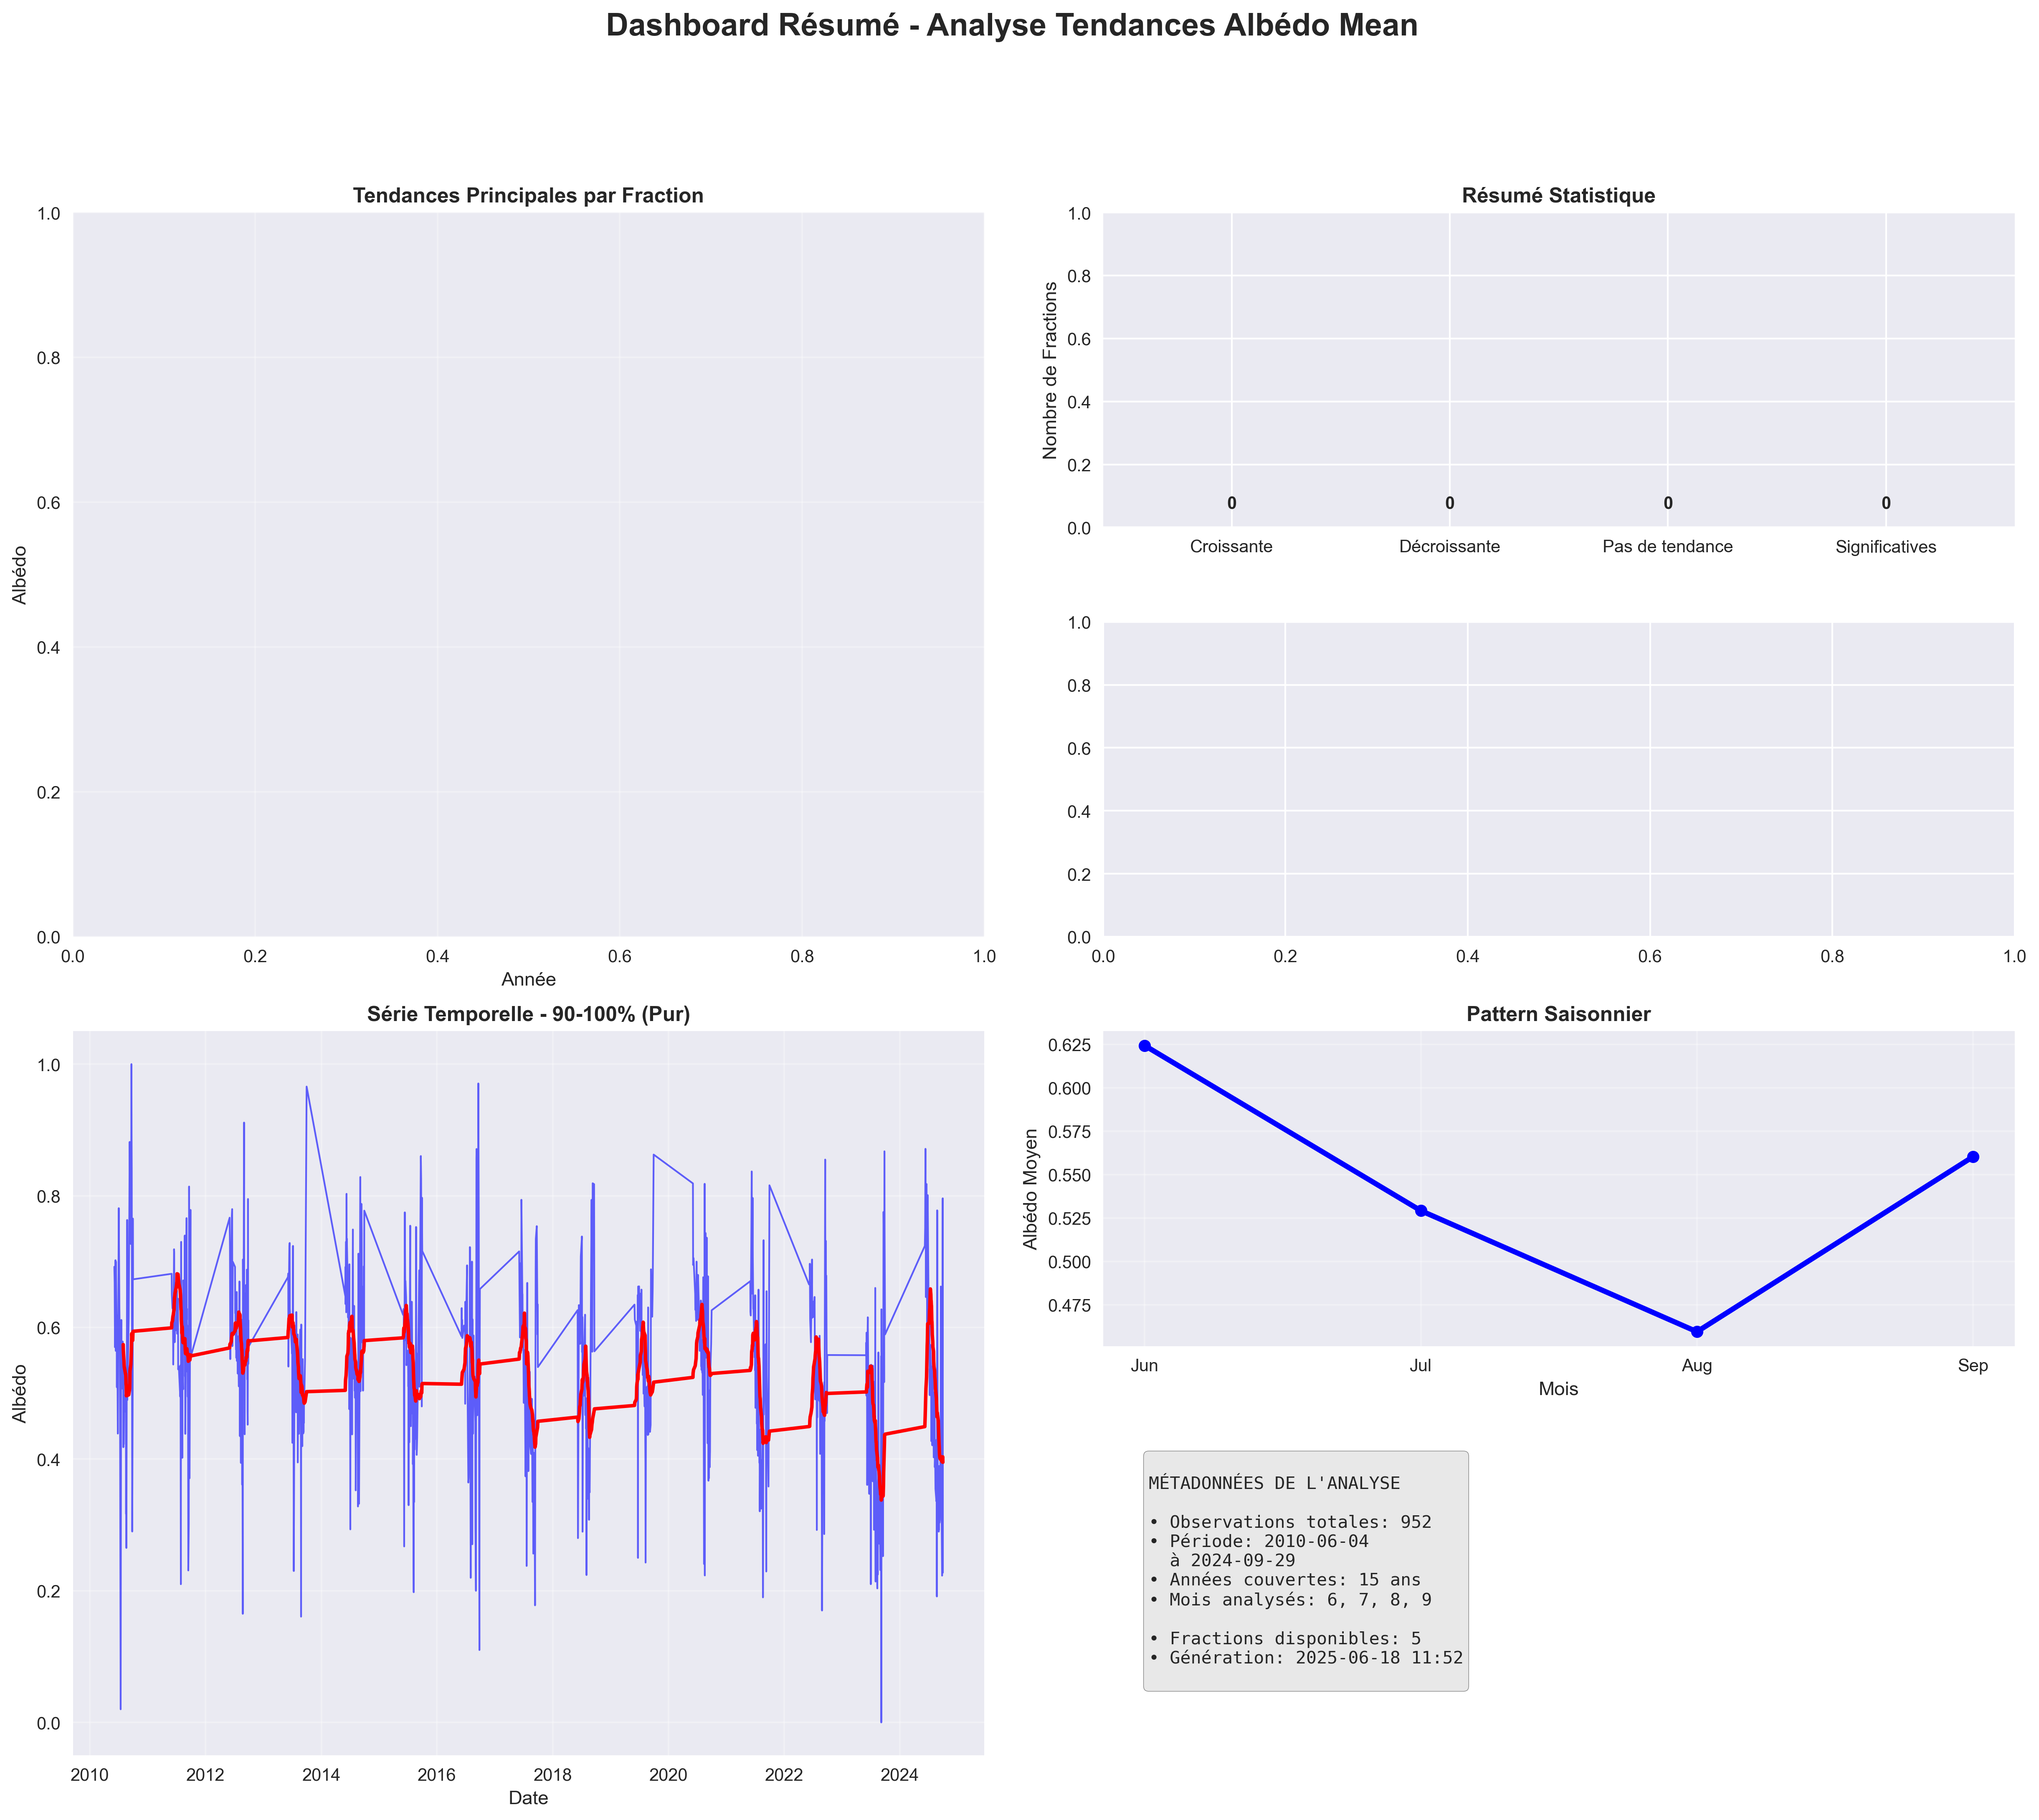
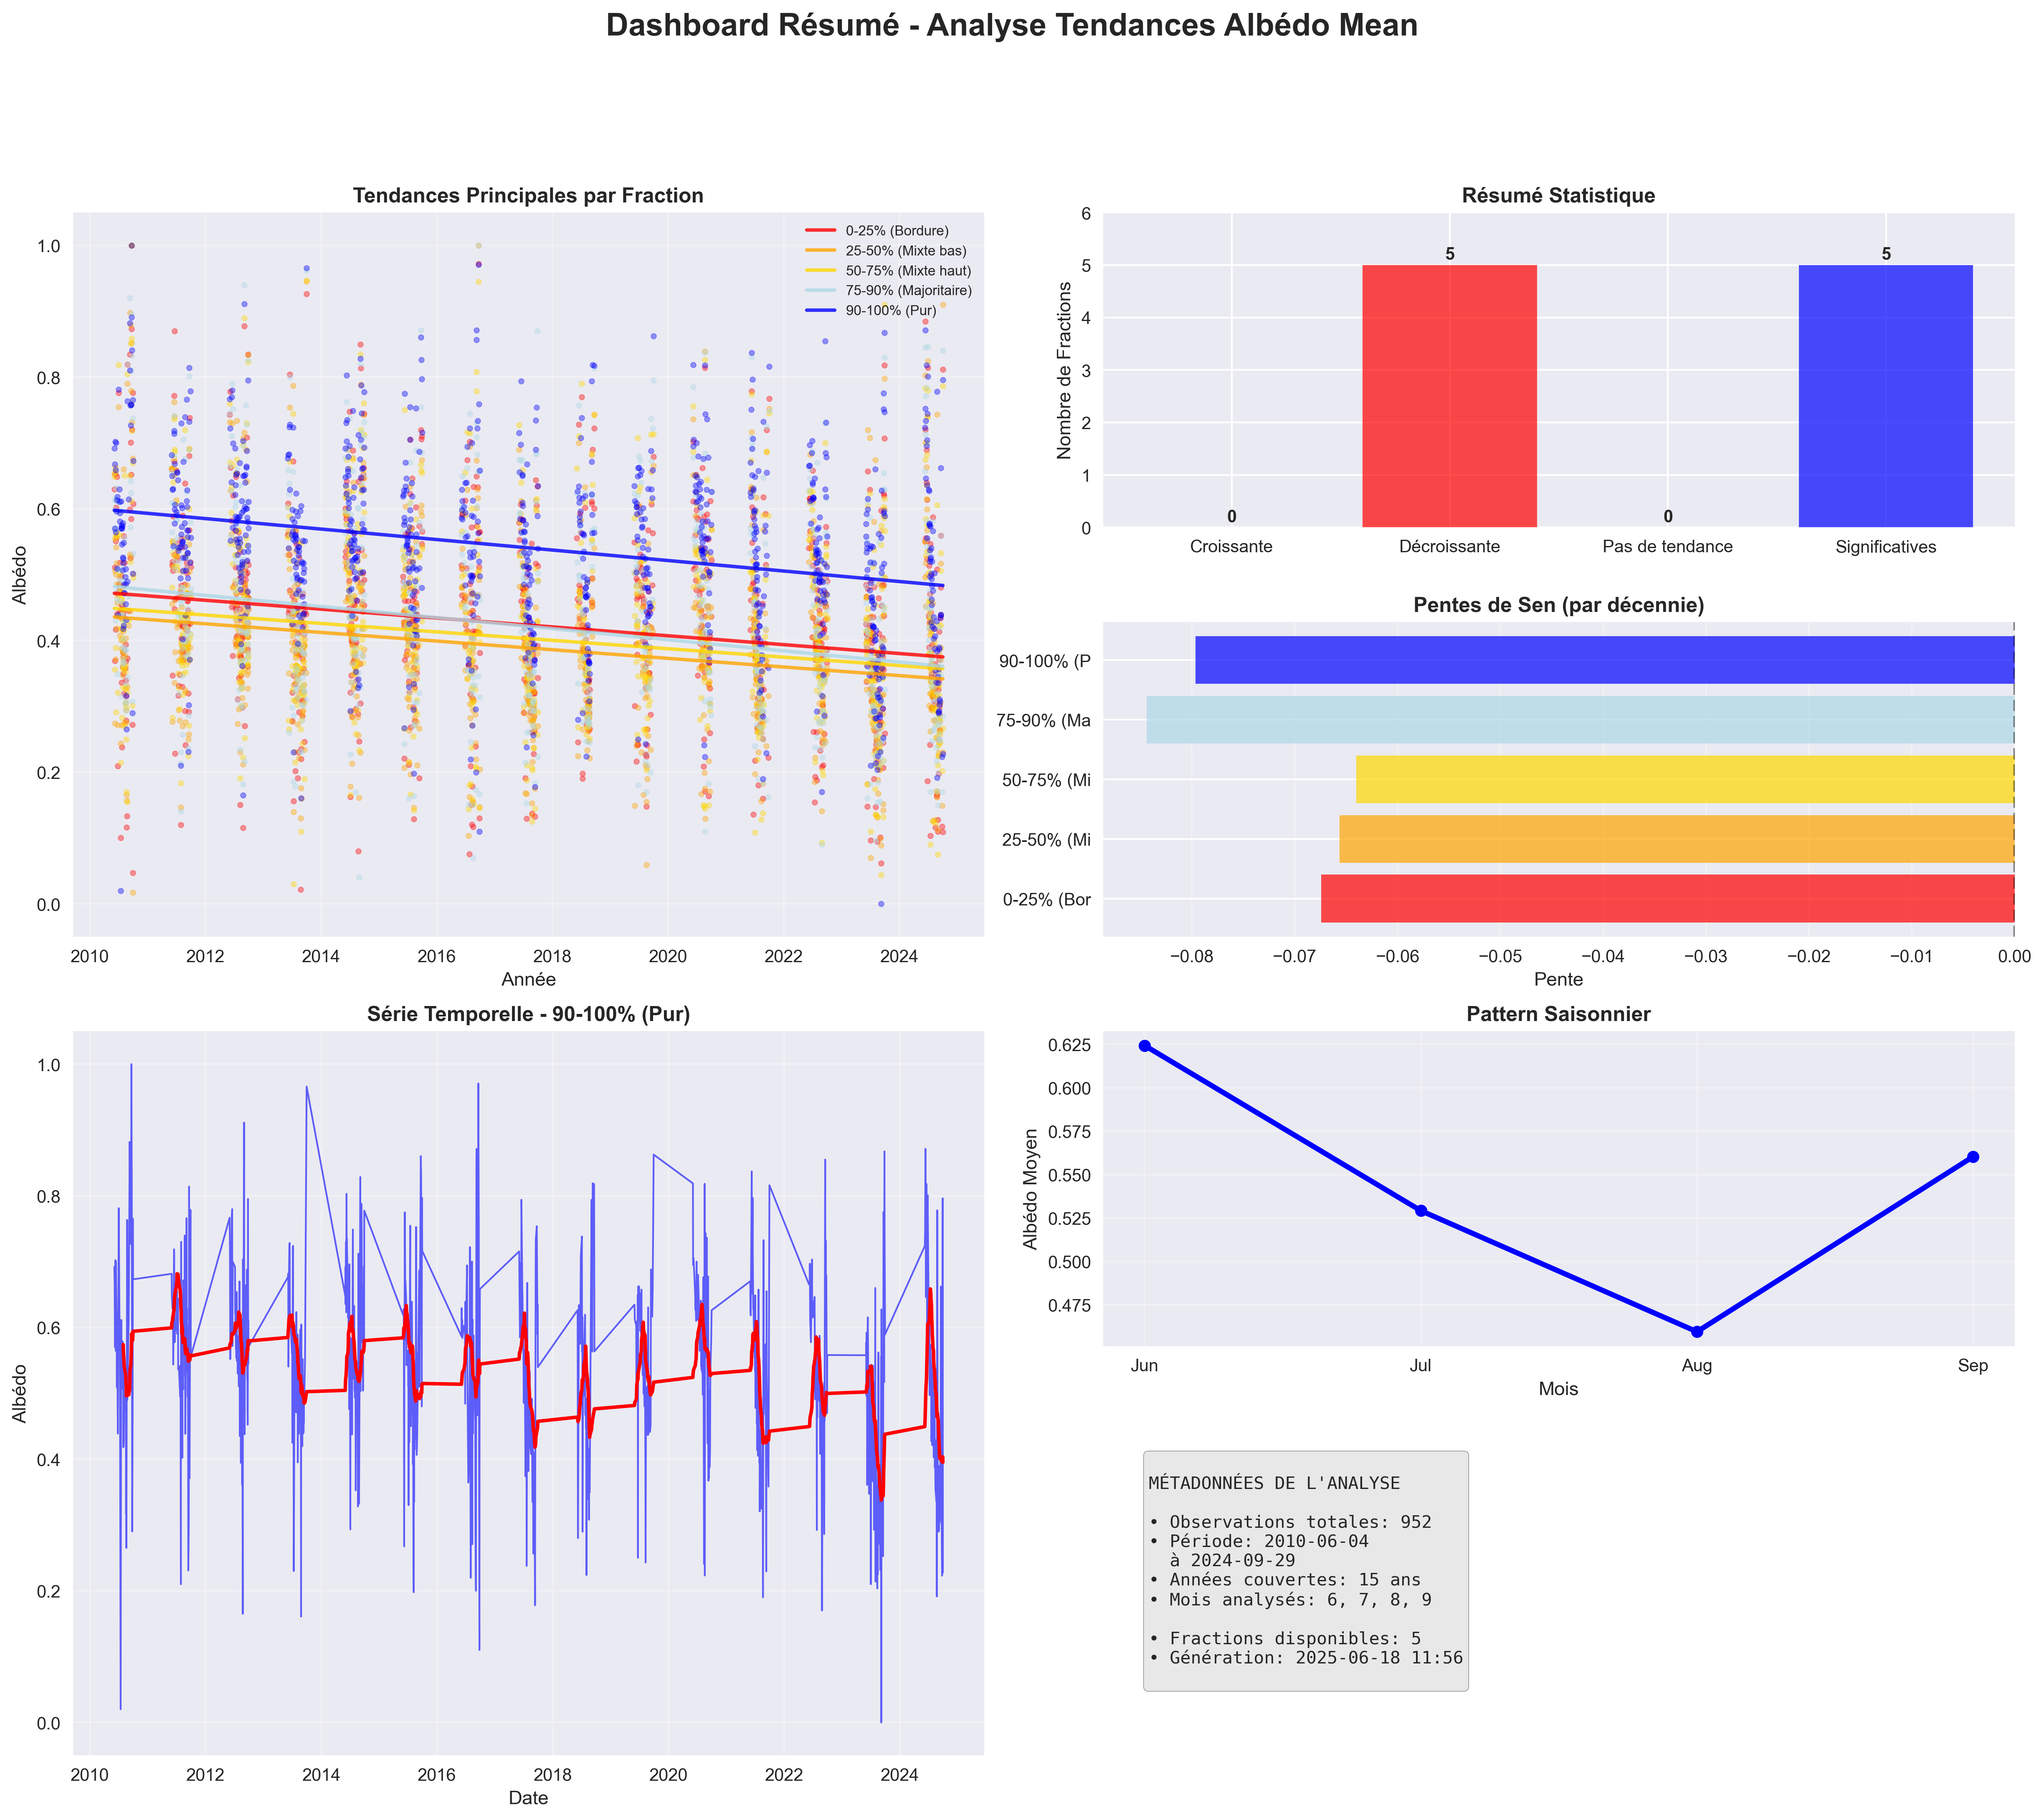
Fix time series visualization to properly segment melt seasons
- Modified _plot_main_timeseries to plot each melt season separately
- Prevents misleading line connections during winter months
- Added color gradient to distinguish different years
- Included overall trend line with statistical regression
- Added font configuration to suppress emoji glyph warnings
- Time series now shows scientifically accurate seasonal data only

🤖 Generated with [Claude Code](https://claude.ai/code)

diff --git a/visualization/charts.py b/visualization/charts.py
@@ -15,6 +15,11 @@ from config import (FRACTION_CLASSES, CLASS_LABELS, FRACTION_COLORS, PLOT_STYLES
                      TREND_SYMBOLS, get_significance_marker, OUTPUT_DIR)
 from utils.helpers import print_section_header, format_pvalue, ensure_directory_exists
 import os
+import warnings
+
+# Configurer matplotlib pour éviter les avertissements de police
+plt.rcParams['font.family'] = ['DejaVu Sans', 'Arial', 'sans-serif']
+warnings.filterwarnings('ignore', category=UserWarning, message='.*Glyph.*missing from font.*')
 
 class ChartGenerator:
     """
@@ -512,21 +517,58 @@ class ChartGenerator:
             ax.grid(True, alpha=0.3, axis='x')
     
     def _plot_main_timeseries(self, ax, variable):
-        """Série temporelle principale"""
+        """Série temporelle principale - segmentée par saison de fonte"""
         main_fraction = 'pure_ice'
         col_name = f"{main_fraction}_{variable}"
         
         if col_name in self.data.columns:
-            data_subset = self.data[['date', col_name]].dropna()
-            ax.plot(data_subset['date'], data_subset[col_name], 
-                   alpha=0.6, linewidth=1, color='blue')
+            # Filtrer pour saison de fonte seulement (juin-septembre)
+            melt_season_data = self.data[
+                (self.data['month'].isin([6, 7, 8, 9])) & 
+                (self.data[col_name].notna())
+            ].copy()
             
-            # Moyenne mobile
-            if len(data_subset) > 30:
-                rolling = data_subset.set_index('date')[col_name].rolling(window=30).mean()
-                ax.plot(rolling.index, rolling.values, color='red', linewidth=2)
+            if len(melt_season_data) > 0:
+                # Trier par date
+                melt_season_data = melt_season_data.sort_values('date')
+                
+                # Grouper par année et tracer chaque saison séparément
+                years = sorted(melt_season_data['year'].unique())
+                colors = plt.cm.viridis(np.linspace(0, 1, len(years)))
+                
+                # Tracer les données par année (évite connexions hiver-été)
+                for i, year in enumerate(years):
+                    year_data = melt_season_data[melt_season_data['year'] == year]
+                    if len(year_data) > 0:
+                        # Ligne pour cette année seulement
+                        ax.plot(year_data['date'], year_data[col_name], 
+                               alpha=0.7, linewidth=1, color=colors[i])
+                        
+                        # Points pour marquer les observations
+                        ax.scatter(year_data['date'], year_data[col_name], 
+                                  alpha=0.6, s=8, color=colors[i])
+                
+                # Tendance générale sur toute la période (optionnel)
+                if len(melt_season_data) > 10:
+                    from scipy import stats
+                    # Convertir dates en nombre pour régression
+                    date_nums = pd.to_numeric(melt_season_data['date'])
+                    values = melt_season_data[col_name].values
+                    
+                    slope, intercept, r_value, p_value, std_err = stats.linregress(date_nums, values)
+                    
+                    # Ligne de tendance générale
+                    trend_line = slope * date_nums + intercept
+                    ax.plot(melt_season_data['date'], trend_line, 
+                           color='red', linewidth=2, alpha=0.8, 
+                           linestyle='--', label=f'Tendance générale')
+                    
+                    ax.legend(fontsize=8)
+            else:
+                ax.text(0.5, 0.5, 'Aucune donnée de saison de fonte disponible', 
+                       ha='center', va='center', transform=ax.transAxes)
         
-        ax.set_title(f'Série Temporelle - {self.class_labels[main_fraction]}', fontweight='bold')
+        ax.set_title(f'Série Temporelle - {self.class_labels[main_fraction]} (Saisons de fonte)', fontweight='bold')
         ax.set_xlabel('Date')
         ax.set_ylabel('Albédo')
         ax.grid(True, alpha=0.3)
